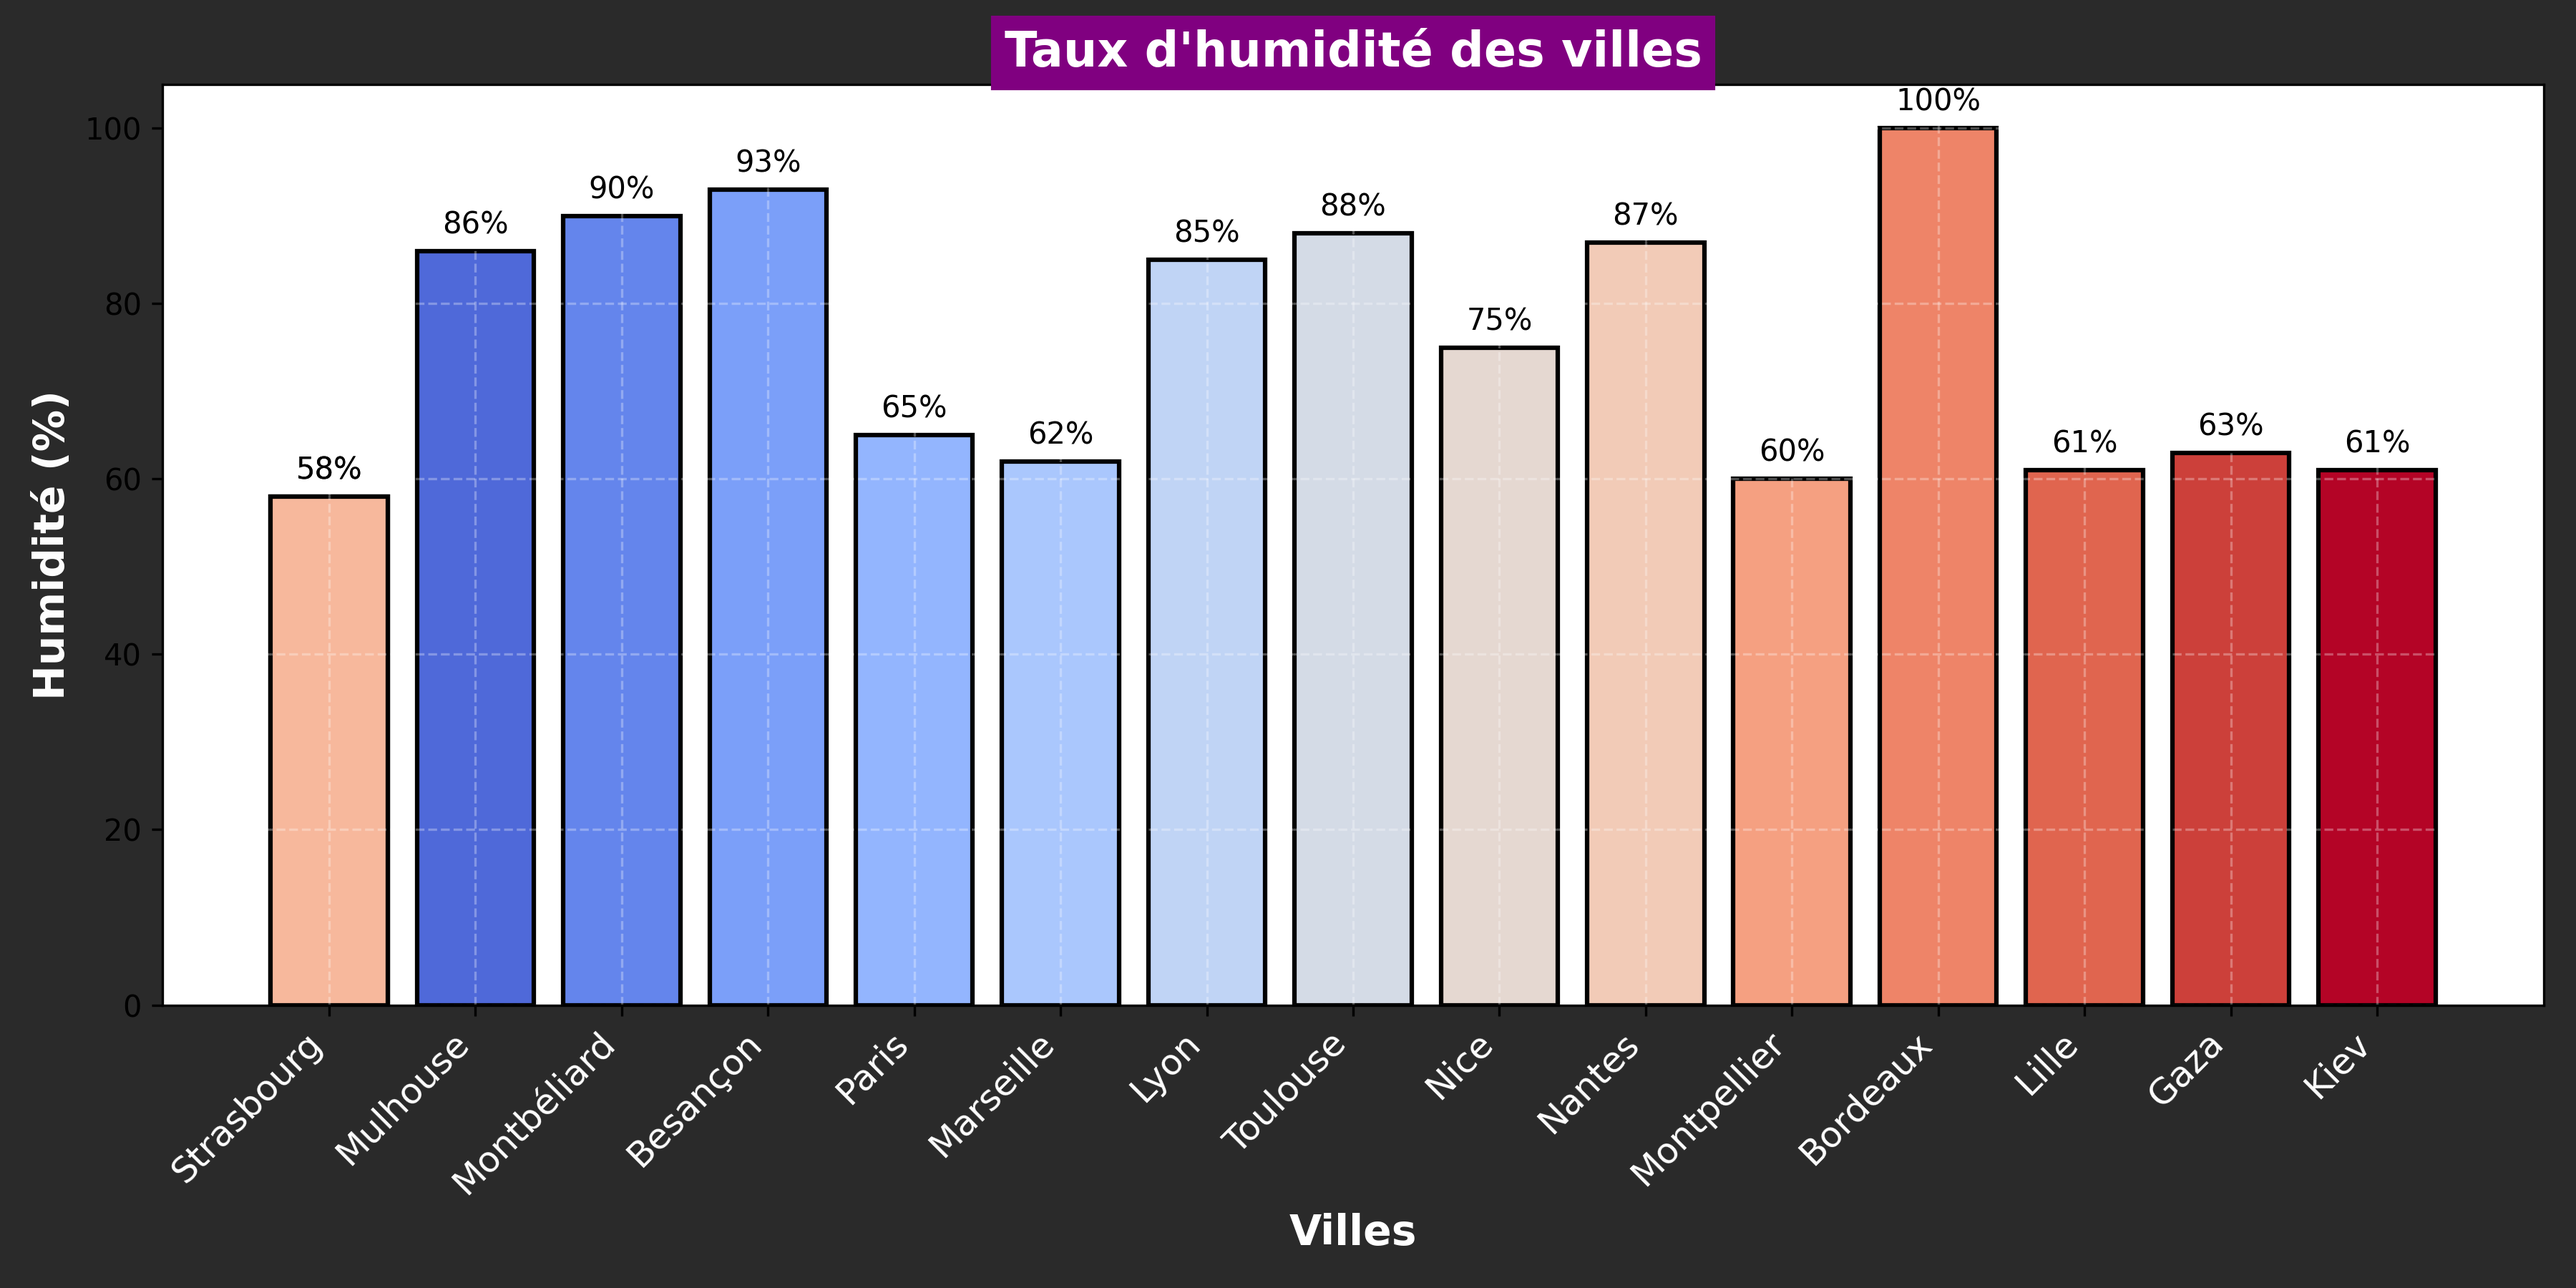
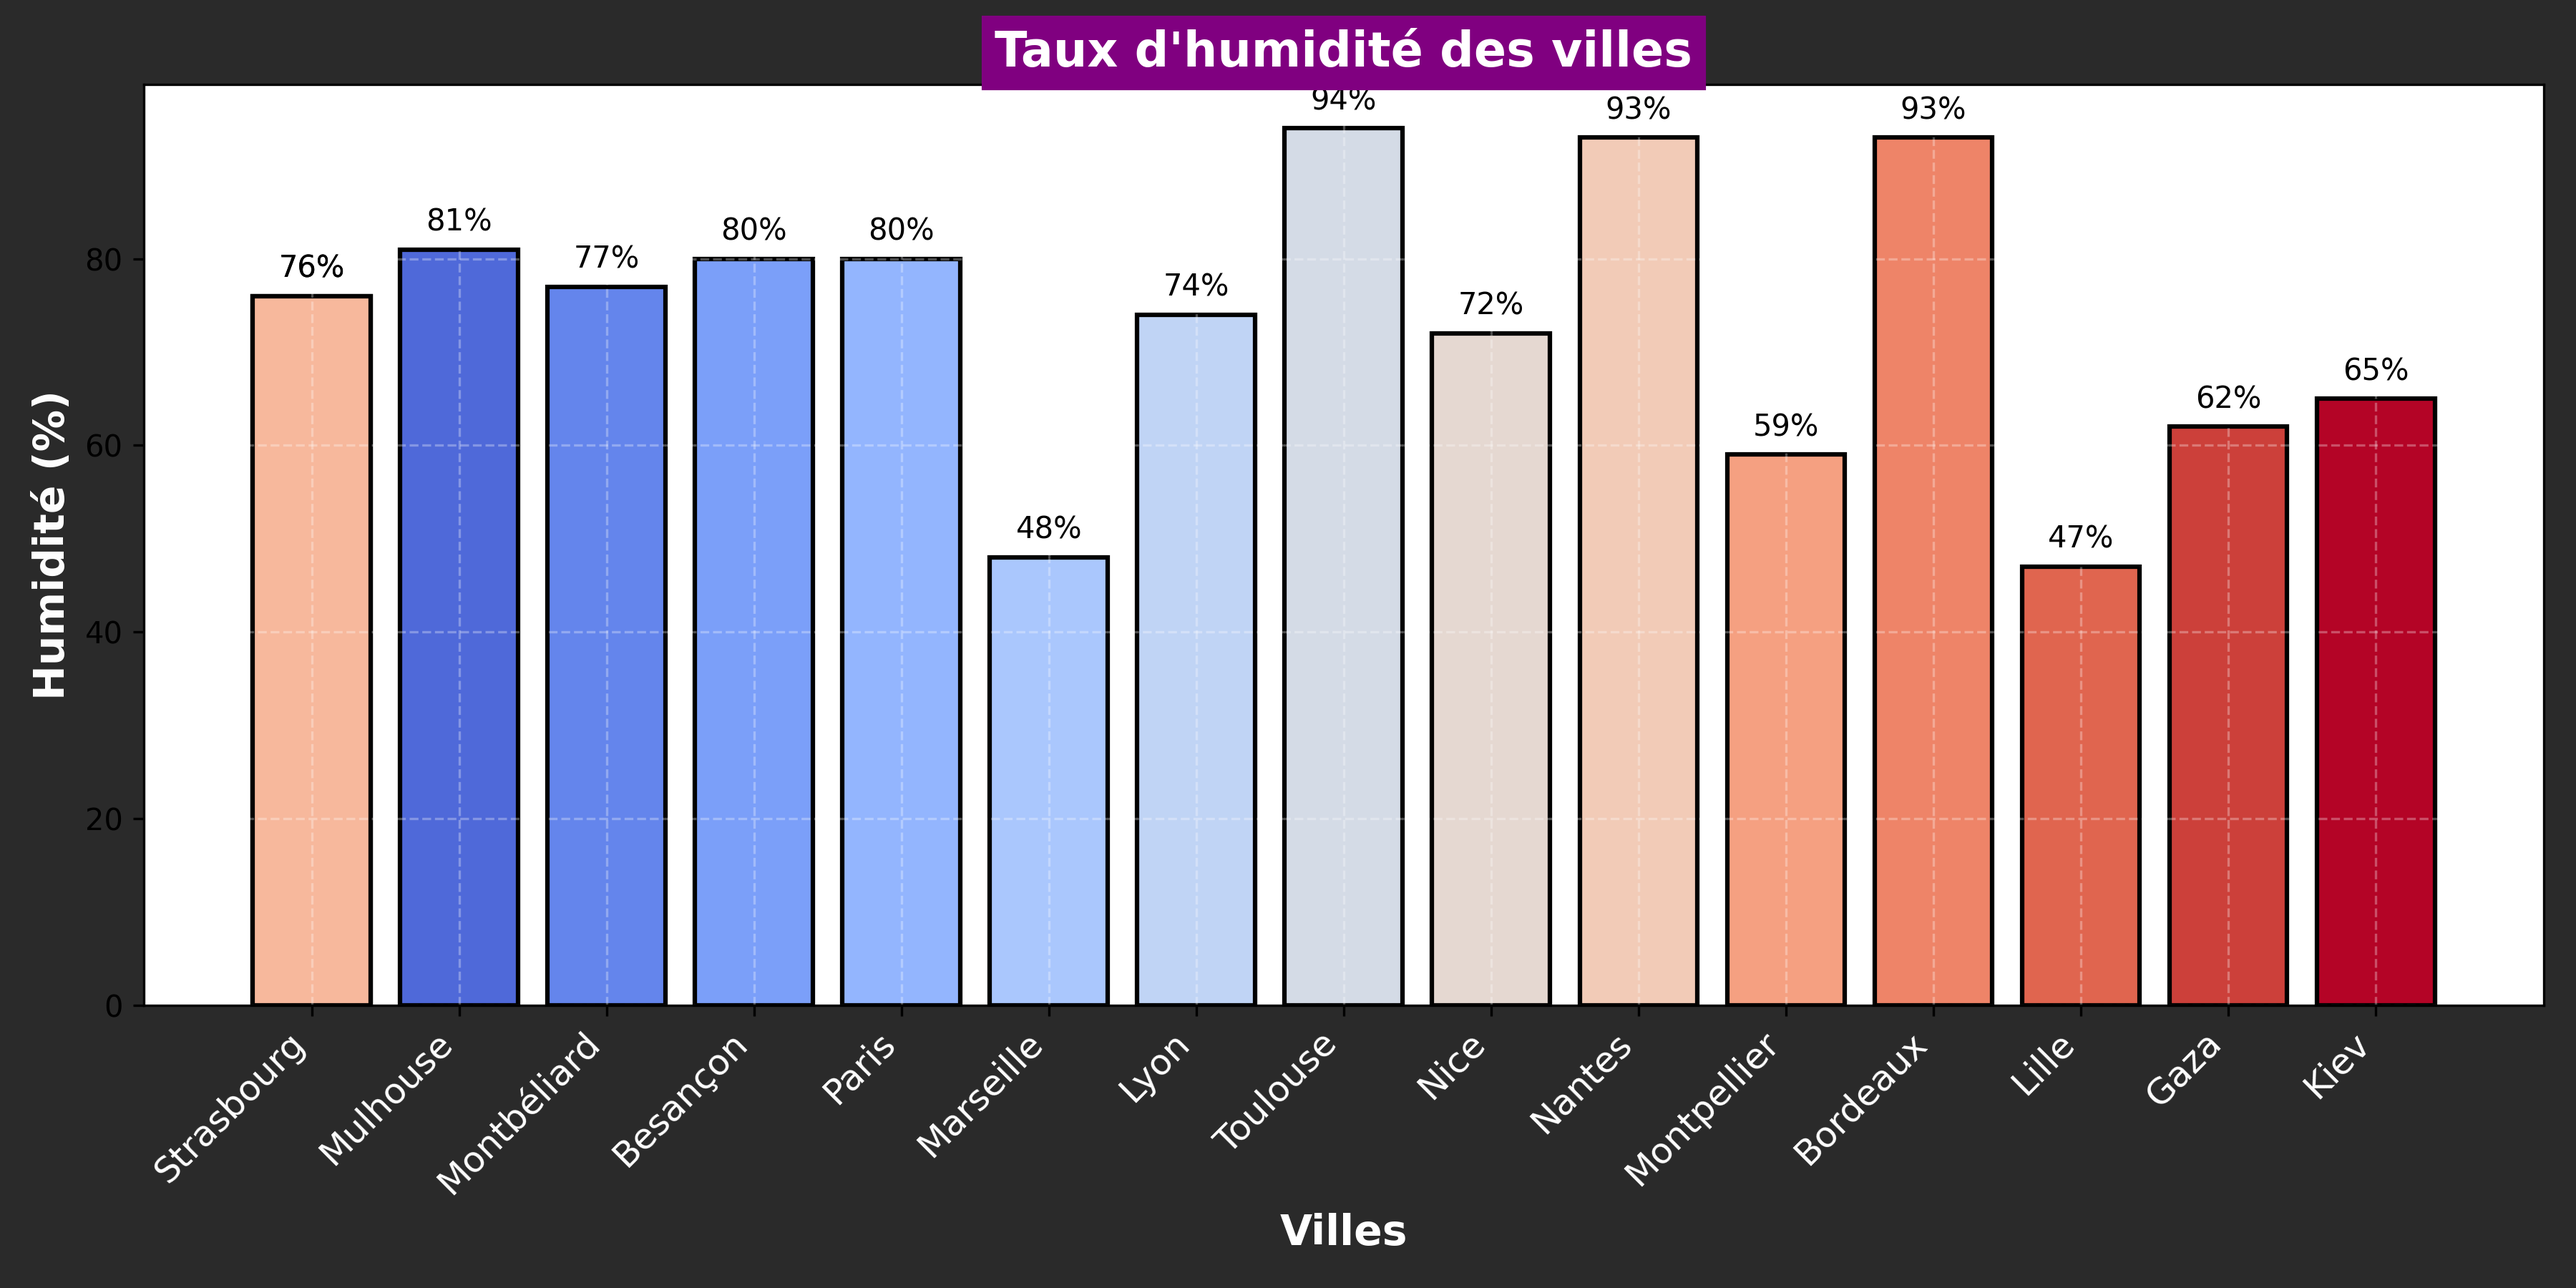
Mise à jour de la météo et ajout du graphique d'humidité

diff --git a/README.md b/README.md
@@ -24,103 +24,103 @@ Ce repo contient plusieurs workflows GitHub Actions :
 ## Météo actuelle :
 ## Météo des grandes villes + Gaza et Kiev 🌍
 
-🕒 Mise à jour : 23/05/2025 08:17:49
+🕒 Mise à jour : 24/05/2025 08:15:36
 
 ### 🌍 Strasbourg ☀
 **Conditions :** ciel dégagé
-**Température :** 11.98°C
-**Humidité :** 58%
-**Vent :** 5.14 m/s
+**Température :** 9.04°C
+**Humidité :** 76%
+**Vent :** 1.03 m/s
 
 ### 🌍 Mulhouse ☀
 **Conditions :** ciel dégagé
-**Température :** 10.17°C
-**Humidité :** 86%
-**Vent :** 1.34 m/s
+**Température :** 7.63°C
+**Humidité :** 81%
+**Vent :** 1.54 m/s
 
 ### 🌍 Montbéliard 🌥
 **Conditions :** nuageux
-**Température :** 9.99°C
-**Humidité :** 90%
-**Vent :** 2.89 m/s
+**Température :** 8.88°C
+**Humidité :** 77%
+**Vent :** 0.59 m/s
 
 ### 🌍 Besançon 🌥
-**Conditions :** nuageux
-**Température :** 7.44°C
-**Humidité :** 93%
-**Vent :** 1.49 m/s
+**Conditions :** couvert
+**Température :** 6.61°C
+**Humidité :** 80%
+**Vent :** 0.27 m/s
 
 ### 🌍 Paris ☀
 **Conditions :** ciel dégagé
-**Température :** 10.4°C
-**Humidité :** 65%
-**Vent :** 3.09 m/s
+**Température :** 10.18°C
+**Humidité :** 80%
+**Vent :** 2.06 m/s
 
-### 🌍 Marseille ☀
-**Conditions :** ciel dégagé
-**Température :** 13.27°C
-**Humidité :** 62%
-**Vent :** 0.45 m/s
+### 🌍 Marseille 🌥
+**Conditions :** partiellement nuageux
+**Température :** 14.73°C
+**Humidité :** 48%
+**Vent :** 0.89 m/s
 
 ### 🌍 Lyon 🌥
-**Conditions :** partiellement nuageux
-**Température :** 7.64°C
-**Humidité :** 85%
-**Vent :** 0.99 m/s
+**Conditions :** couvert
+**Température :** 7.41°C
+**Humidité :** 74%
+**Vent :** 1.12 m/s
 
 ### 🌍 Toulouse 🌥
-**Conditions :** couvert
-**Température :** 12.99°C
-**Humidité :** 88%
-**Vent :** 4.12 m/s
+**Conditions :** partiellement nuageux
+**Température :** 11.99°C
+**Humidité :** 94%
+**Vent :** 3.6 m/s
 
-### 🌍 Nice ☀
-**Conditions :** ciel dégagé
-**Température :** 9.72°C
-**Humidité :** 75%
-**Vent :** 0.95 m/s
+### 🌍 Nice 🌥
+**Conditions :** couvert
+**Température :** 10.83°C
+**Humidité :** 72%
+**Vent :** 1.13 m/s
 
 ### 🌍 Nantes ☀
 **Conditions :** ciel dégagé
-**Température :** 11.96°C
-**Humidité :** 87%
-**Vent :** 1.03 m/s
+**Température :** 9.96°C
+**Humidité :** 93%
+**Vent :** 0 m/s
 
 ### 🌍 Strasbourg ☀
 **Conditions :** ciel dégagé
-**Température :** 11.98°C
-**Humidité :** 58%
-**Vent :** 5.14 m/s
+**Température :** 9.04°C
+**Humidité :** 76%
+**Vent :** 1.03 m/s
 
 ### 🌍 Montpellier ☀
 **Conditions :** ciel dégagé
-**Température :** 16.39°C
-**Humidité :** 60%
-**Vent :** 5.14 m/s
+**Température :** 15.83°C
+**Humidité :** 59%
+**Vent :** 2.57 m/s
 
-### 🌍 Bordeaux ☀
-**Conditions :** ciel dégagé
-**Température :** 12.15°C
-**Humidité :** 100%
+### 🌍 Bordeaux 🌥
+**Conditions :** peu nuageux
+**Température :** 11.15°C
+**Humidité :** 93%
 **Vent :** 2.57 m/s
 
 ### 🌍 Lille 🌥
-**Conditions :** partiellement nuageux
-**Température :** 10.33°C
-**Humidité :** 61%
-**Vent :** 3.09 m/s
+**Conditions :** nuageux
+**Température :** 12.25°C
+**Humidité :** 47%
+**Vent :** 4.63 m/s
 
 ### 🌍 Gaza ☀
 **Conditions :** ciel dégagé
-**Température :** 24.7°C
-**Humidité :** 63%
-**Vent :** 3.89 m/s
+**Température :** 24.66°C
+**Humidité :** 62%
+**Vent :** 2.93 m/s
 
 ### 🌍 Kiev 🌥
-**Conditions :** nuageux
-**Température :** 20.01°C
-**Humidité :** 61%
-**Vent :** 5.8 m/s
+**Conditions :** couvert
+**Température :** 19.84°C
+**Humidité :** 65%
+**Vent :** 0.45 m/s
 
 <p align='center'><img src='https://raw.githubusercontent.com/khoa083/khoa/main/Khoa_ne/img/Rainbow.gif' width='100%' style='border-radius: 5px; border: 3px solid #39FF14; box-shadow: 0 0 10px #39FF14, 0 0 20px #39FF14;' /></p>
 
